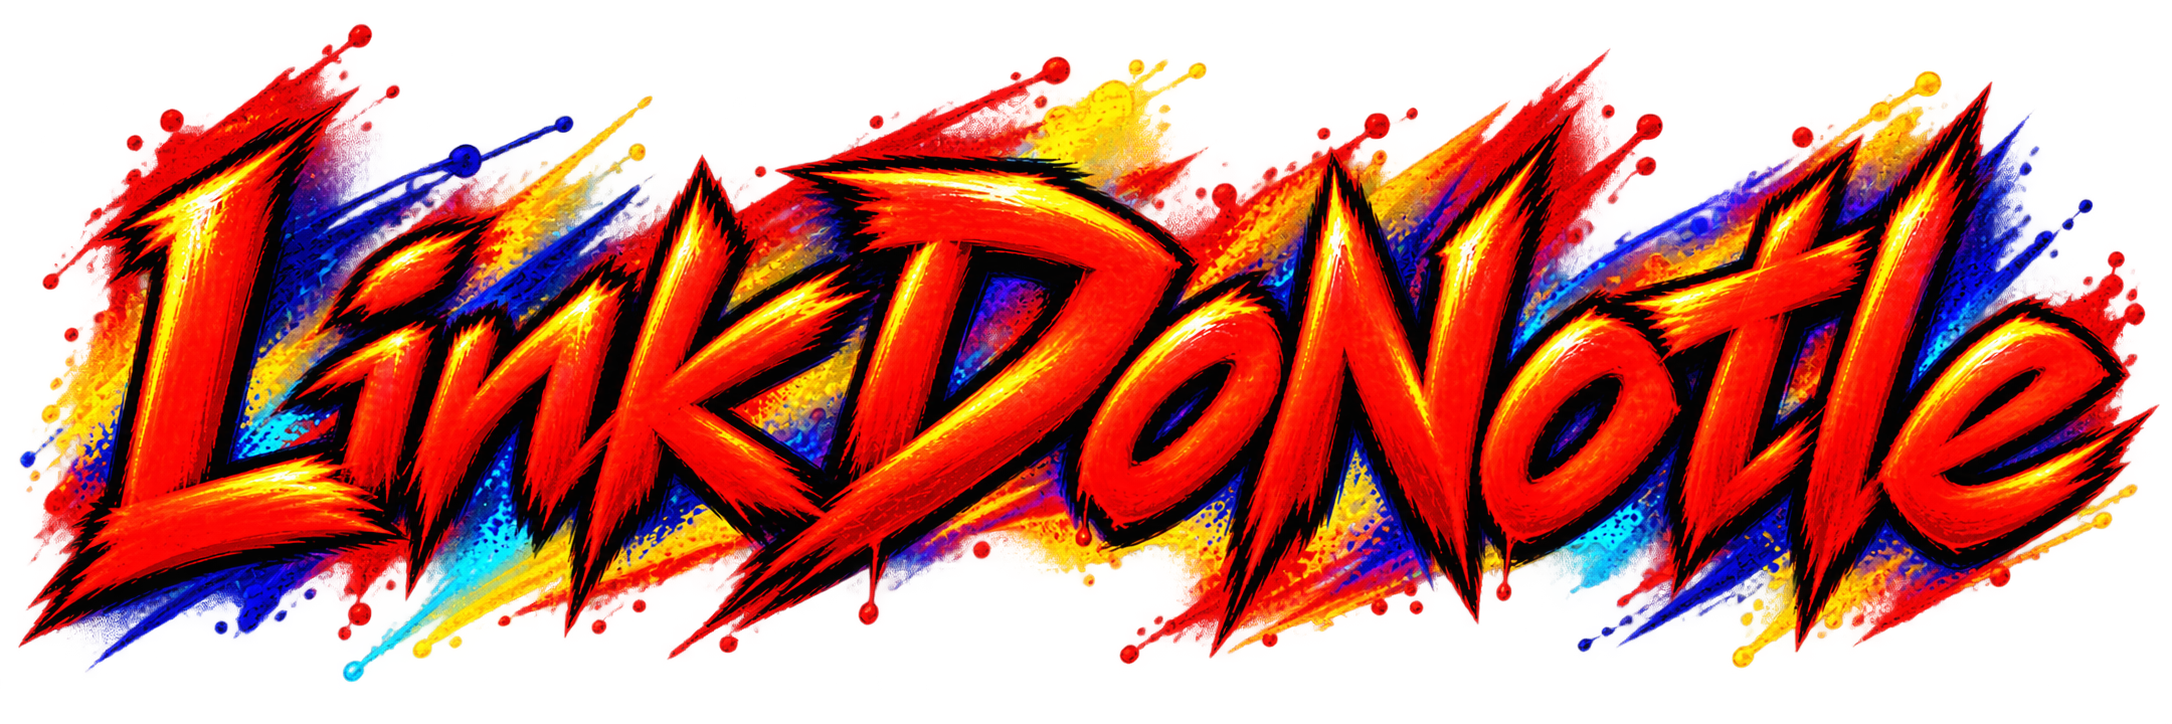
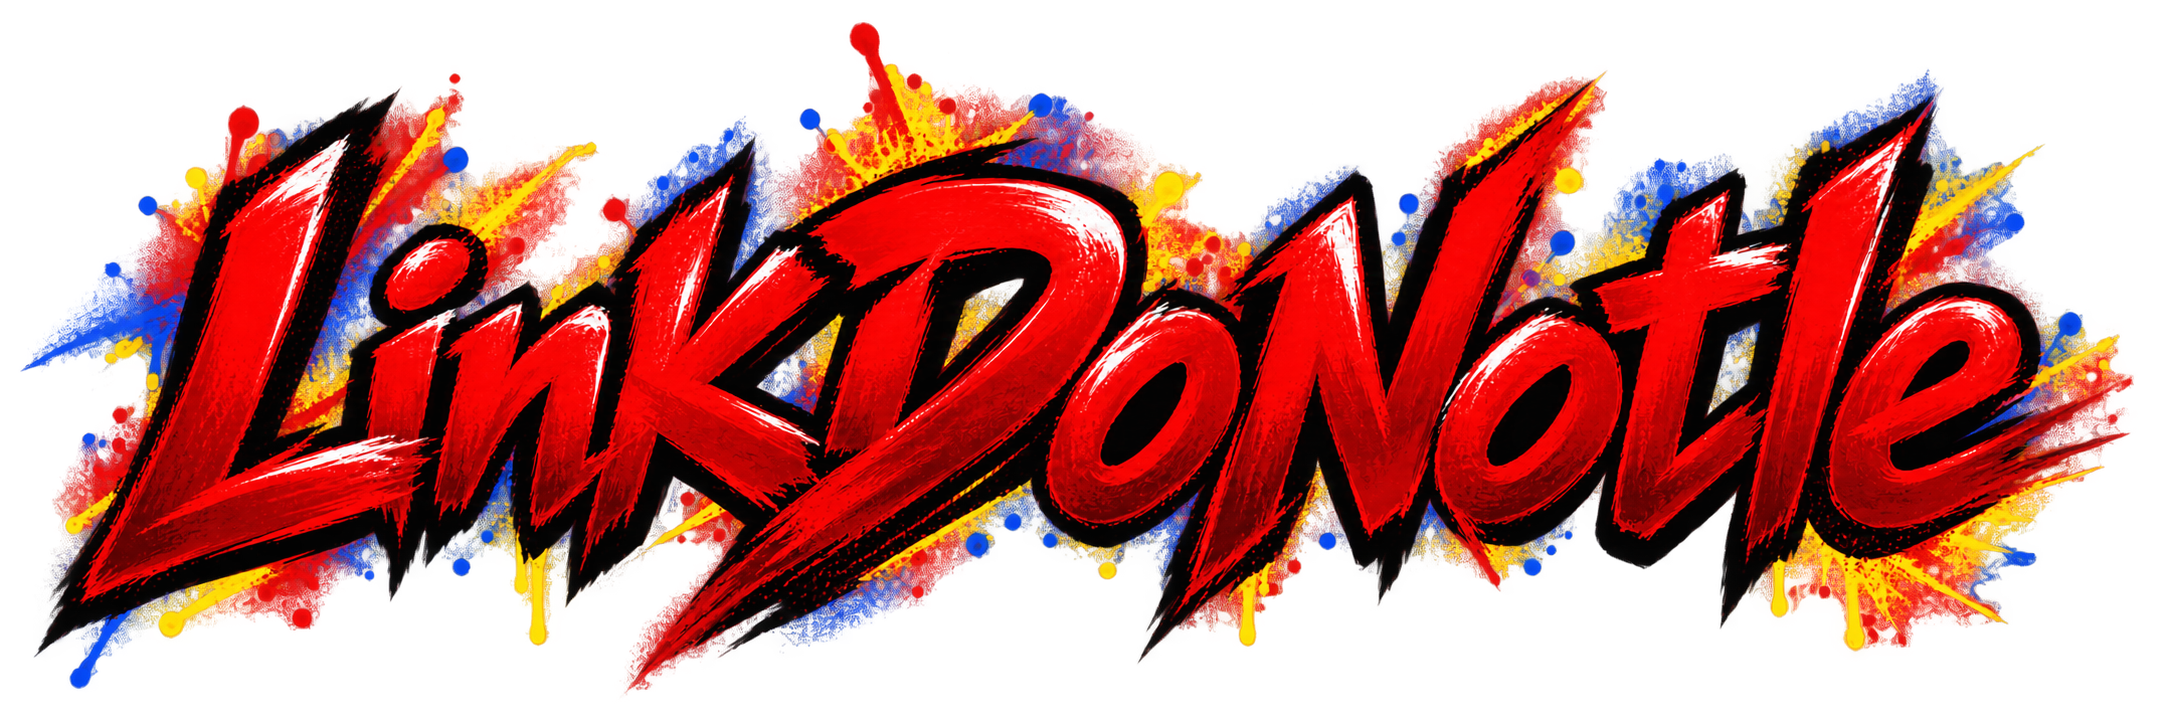
Stop join background on entry and refresh server branding

diff --git a/public/js/Room.js b/public/js/Room.js
@@ -1377,11 +1377,22 @@ async function whoAreYou() {
         console.error('AXIOS OIDC Error fetching profile', error.message || error);
     }
 
+    const stopJoinBackground = () => {
+        const joinBackground = getId('joinBackground');
+        const backgroundVideo = getId('joinBackgroundVideo');
+        joinBackground?.classList.remove('active');
+        if (backgroundVideo) {
+            backgroundVideo.pause();
+            backgroundVideo.removeAttribute('src');
+            backgroundVideo.load();
+        }
+    };
+
     Swal.fire({
         allowOutsideClick: false,
         allowEscapeKey: false,
         background: swalBackground,
-        title: '<img class="init-brand-image" src="/images/linkdonotle-banner.png" alt="LinkDoNotle" />',
+        title: '<img class="init-brand-image" src="/images/linkdonotle-banner.png?v=2" alt="LinkDoNotle" />',
         html: initUser,
         confirmButtonText: 'Join meeting',
         backdrop: 'rgba(3, 4, 9, 0.24)',
@@ -1396,14 +1407,7 @@ async function whoAreYou() {
             backgroundVideo.src = '/videos/linkdonotle-background.mp4';
             backgroundVideo.play().catch(() => {});
         },
-        didClose: () => {
-            const joinBackground = getId('joinBackground');
-            const backgroundVideo = getId('joinBackgroundVideo');
-            joinBackground.classList.remove('active');
-            backgroundVideo.pause();
-            backgroundVideo.removeAttribute('src');
-            backgroundVideo.load();
-        },
+        didClose: stopJoinBackground,
         didOpen: () => {
             const nameInput = getId('usernameInput');
             const passwordInput = getId('roomPasswordInput');
@@ -1463,6 +1467,8 @@ async function whoAreYou() {
         },
     }).then(async (result) => {
         if (!result.isConfirmed) return;
+        // A later room popup can replace the join dialog before didClose runs.
+        stopJoinBackground();
         if (!usernameEmoji.classList.contains('hidden')) {
             usernameEmoji.classList.add('hidden');
         }

diff --git a/public/css/Room.css b/public/css/Room.css
@@ -484,7 +484,8 @@ body {
     transition: opacity 350ms ease, visibility 350ms ease;
 }
 
-.join-background.active {
+/* Keep the video visible only while the entry dialog is on screen. */
+body:has(.init-modal-size) .join-background.active {
     visibility: visible;
     opacity: 1;
 }
